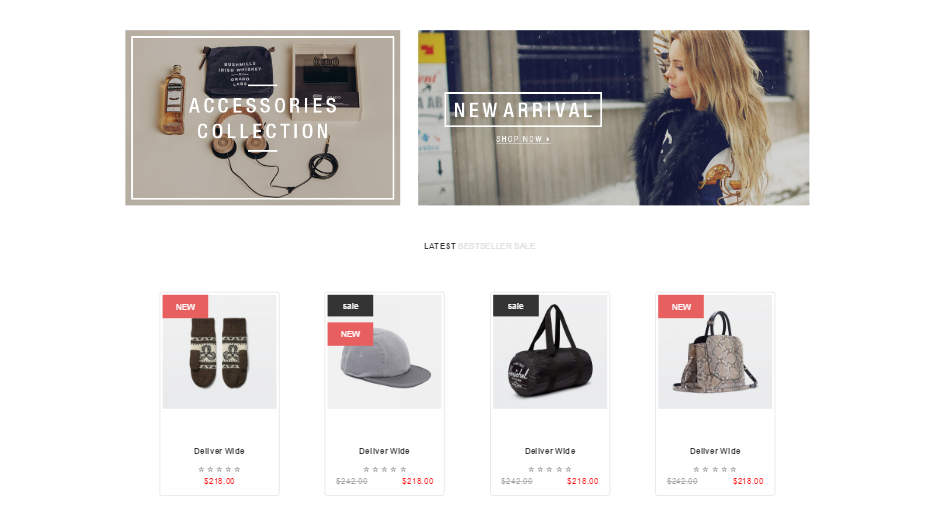
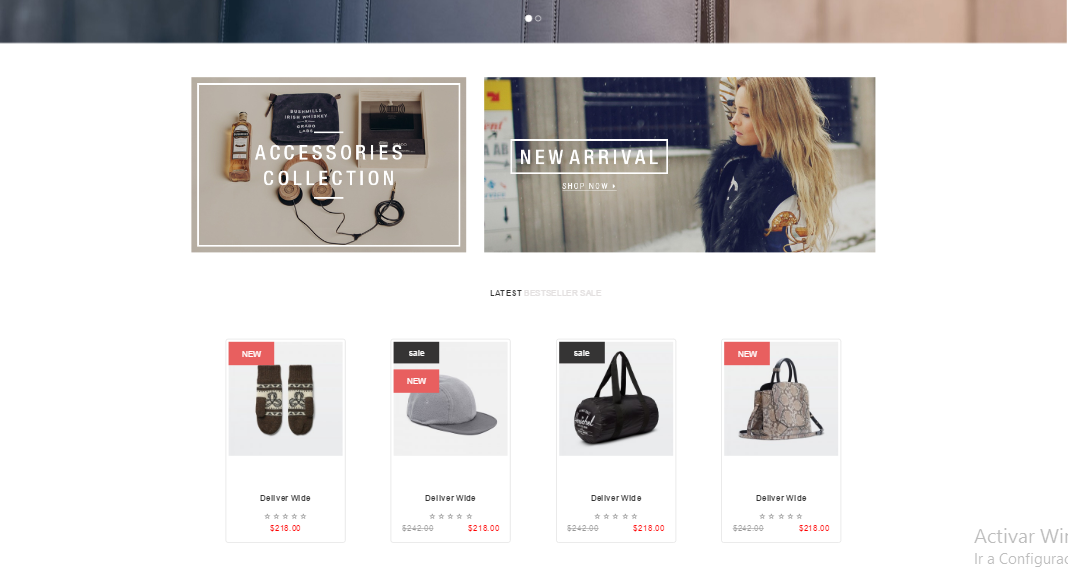
cambiando imagenes

diff --git a/css/style.css b/css/style.css
@@ -16,7 +16,7 @@ a.enlaceNav:hover{
 }
 /*imagenes portadas*/
 body{
-	background-image: url("../images/fotosPortafolio/nuevasFotos/fondoback5.jpg");
+	background-image: url("../images/fotosPortafolio/fondoback5.jpg");
 	background-attachment: fixed;
 	background-repeat: repeat;
 	background-size: cover;
@@ -43,9 +43,7 @@ body{
 
 
  }
- .border{
- 	border: 0.5px solid #E8E7E7;
- }
+
 /*letras*/
 .titulos{
 
@@ -361,7 +359,7 @@ progress::-moz-progress-bar {
 	}	
 
 	body{
-		background-image: url("../images/fotosPortafolio/nuevasFotos/fondoback5.jpg");
+		background-image: url("../images/fotosPortafolio/fondoback5.jpg");
 		background-attachment: fixed;
 		background-repeat: repeat;
 		background-size: cover;

diff --git a/index.html b/index.html
@@ -184,7 +184,7 @@
 					</div>
 					<div class="row margBot15">
 						<div class="col-xs-12 col-sm-6 col-md-6 col-lg-6 maPd0">
-							<img src="images/accessories1.png" class="adaptarImgWeb img-responsive maPd0 border" alt="web"><!--3era imagen web-->
+							<img src="images/accessories.jpg" class="adaptarImgWeb img-responsive maPd0 border" alt="web"><!--3era imagen web-->
 							<a href="https://rodriguezsanrosales.github.io/32_fashion/index.html" target="_blank"><button type="button" class="btn btn-default btn-sm active visible-xs">ver más</button></a>
 						</div>
 						<div class="hidden-xs col-sm-6 col-md-6 col-lg-6">
